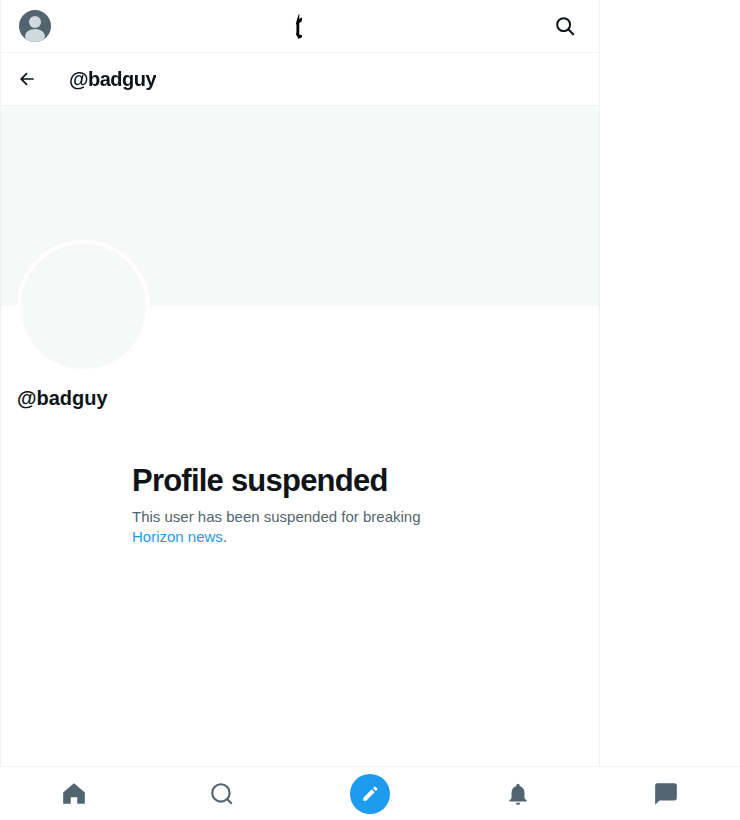
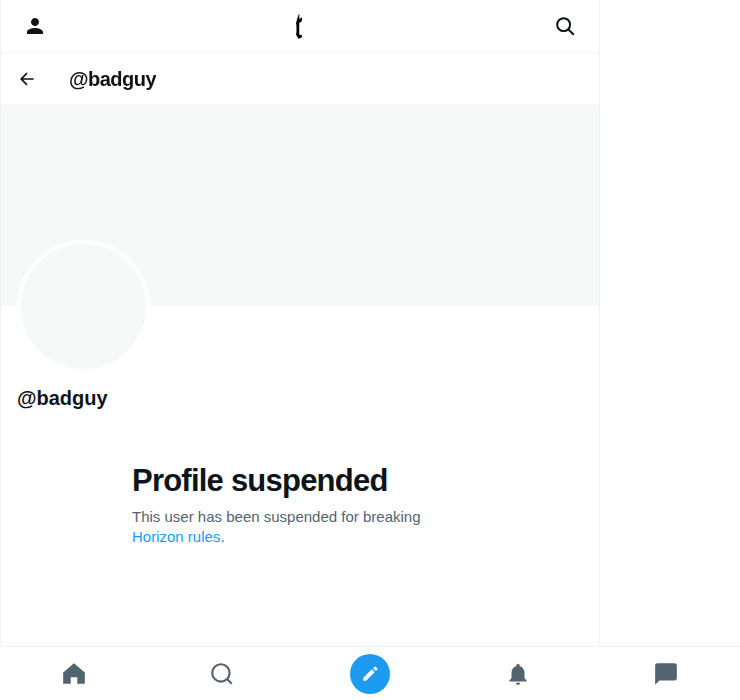
Say "Horizon rules", not "Horizon news" (#29)
The suspension notice had the wrong word. It now reads "This user has been
suspended for breaking Horizon rules", and the link goes to /rules.

The page was already the rules — what gets an account suspended, how to
appeal, how Community Notes are decided — so it is named that rather than
a second page being added beside it. /news redirects there instead of
becoming a dead link, since the earlier wording had already published it.

"rules" joins the reserved handles alongside "news", for the same reason:
a notice pointing at /rules must not be claimable by an account.

Claude-Session: https://claude.ai/code/session_01Hrq1F8wspJ3EgrDjR5kh5j

diff --git a/apps/web/src/pages/RulesPage.tsx b/apps/web/src/pages/RulesPage.tsx
@@ -3,12 +3,12 @@ import { ArrowLeftIcon } from "../icons";
 import { SeoHead } from "../components/SeoHead";
 
 /**
- * Horizon News.
+ * Horizon Rules.
  *
  * The page a suspension notice points at, so it has to answer the question
- * someone arrives with: what happened to that account, and what are the rules
- * here. Static content rather than a feed — an instance announcement channel
- * is a thing an operator writes, not something to fabricate a data model for.
+ * someone arrives with: what gets an account suspended here, and what can be
+ * done about it. Static content — the rules of an instance are something an
+ * operator writes, not something to fabricate a data model for.
  */
 const ENTRIES = [
   {
@@ -38,26 +38,27 @@ const ENTRIES = [
   },
 ];
 
-export function NewsPage() {
+export function RulesPage() {
   const navigate = useNavigate();
 
   return (
     <div className="animate-fade-in">
       <SeoHead
-        title="Horizon News"
-        description="Announcements and the rules of this instance."
-        url="/news"
+        title="Horizon Rules"
+        description="The rules of this instance, and what happens when an account breaks them."
+        url="/rules"
       />
       <header className="x-header gap-6">
         <button type="button" onClick={() => navigate(-1)} className="icon-btn -ml-2" aria-label="Back">
           <ArrowLeftIcon className="w-5 h-5" />
         </button>
-        <h1 className="x-title">Horizon News</h1>
+        <h1 className="x-title">Horizon Rules</h1>
       </header>
 
       <div className="px-4 py-4 border-b" style={{ borderColor: "var(--color-border)" }}>
         <p className="text-[15px]" style={{ color: "var(--color-text-secondary)" }}>
-          Announcements from this instance, and the rules an account is expected to keep to.
+          The rules an account is expected to keep to on this instance, and what happens when one
+          does not.
         </p>
       </div>
 

diff --git a/apps/web/src/App.tsx b/apps/web/src/App.tsx
@@ -30,7 +30,7 @@ import { AdminOverviewPage } from "./pages/AdminOverviewPage";
 import { AdminUsersPage } from "./pages/AdminUsersPage";
 import { AdminPostsPage } from "./pages/AdminPostsPage";
 import { MaintenanceScreen } from "./components/MaintenanceScreen";
-import { NewsPage } from "./pages/NewsPage";
+import { RulesPage } from "./pages/RulesPage";
 import { AdminStatisticsPage } from "./pages/AdminStatisticsPage";
 import { AdminNotesPage } from "./pages/AdminNotesPage";
 import { UserStatsPage } from "./pages/UserStatsPage";
@@ -157,7 +157,10 @@ export default function App() {
           <Route path="delegation" element={<SettingsDelegationPage />} />
         </Route>
         <Route path="/messages/:id" element={<ConversationPage />} />
-        <Route path="/news" element={<NewsPage />} />
+        <Route path="/rules" element={<RulesPage />} />
+        {/* The first version of the suspension notice linked here, so it stays
+            pointed at the page rather than becoming a dead link. */}
+        <Route path="/news" element={<Navigate to="/rules" replace />} />
         <Route path="/communities/:slug" element={<CommunityPage />} />
         <Route path="/communities/:slug/requests" element={<CommunityJoinRequestsPage />} />
         <Route path="/:username/affiliates" element={<AffiliatesPage />} />

diff --git a/apps/web/src/components/SuspendedProfile.tsx b/apps/web/src/components/SuspendedProfile.tsx
@@ -55,8 +55,8 @@ export function SuspendedProfile({ username }: { username: string }) {
         <h2>Profile suspended</h2>
         <p>
           This user has been suspended for breaking{" "}
-          <Link to="/news" className="link">
-            Horizon news
+          <Link to="/rules" className="link">
+            Horizon rules
           </Link>
           .
         </p>

diff --git a/packages/shared/src/index.ts b/packages/shared/src/index.ts
@@ -167,6 +167,7 @@ export const RESERVED_USERNAMES: ReadonlySet<string> = new Set([
   "status",
   "communitynotes",
   "news",
+  "rules",
 ]);
 
 /** Centralized permission keys */
